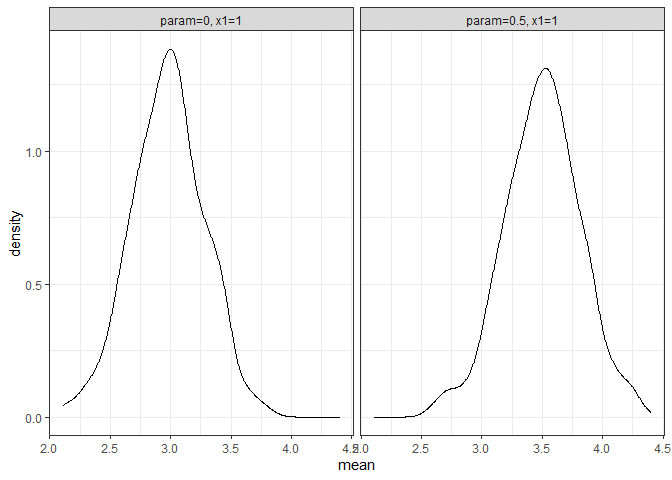
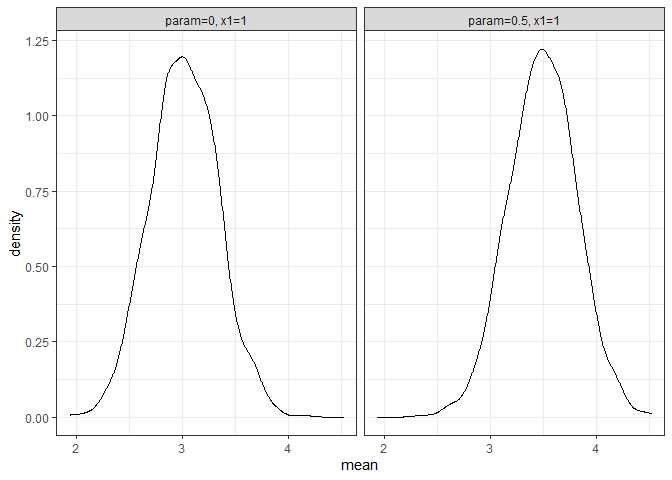
set.seed in examples and in report

diff --git a/README.md b/README.md
@@ -73,6 +73,8 @@ test_func <- function(param = 0.1, n = 100, x1 = 1, x2 = 2){
 param_list <- list(param = seq(from = 0, to = 1, by = 0.5),
                    x1 = 1:2)
 
+set.seed(101)
+
 test_mc <- future_mc(
   fun = test_func,
   repetitions = 1000,
@@ -87,7 +89,7 @@ test_mc <- future_mc(
 #> Running whole simulation: Overall 6 parameter combinations are simulated ...
 #> 
 #>  Simulation was successfull!
-#>  Running time: 00:00:00.726548
+#>  Running time: 00:00:00.292132
 
 test_mc
 #> Monte Carlo simulation results for the specified function: 
@@ -113,7 +115,7 @@ test_mc
 #> 6   1.0  2
 #> are each simulated 1000 times. 
 #>  
-#>  The Running time was: 00:00:00.726548 
+#>  The Running time was: 00:00:00.292132 
 #>  
 #>  Parallel: TRUE 
 #>  
@@ -134,21 +136,21 @@ Summarize your results:
 sum_res <- summary(test_mc)
 sum_res
 #> Results for the output mean: 
-#>    param=0, x1=1: 2.978156 
-#>    param=0, x1=2: 3.992713 
-#>    param=0.5, x1=1: 3.500902 
-#>    param=0.5, x1=2: 4.51591 
-#>    param=1, x1=1: 4.014331 
-#>    param=1, x1=2: 5.013077 
+#>    param=0, x1=1: 3.015575 
+#>    param=0, x1=2: 4.003162 
+#>    param=0.5, x1=1: 3.49393 
+#>    param=0.5, x1=2: 4.480855 
+#>    param=1, x1=1: 3.985815 
+#>    param=1, x1=2: 4.994084 
 #>  
 #>  
 #> Results for the output var: 
-#>    param=0, x1=1: 1.01179 
-#>    param=0, x1=2: 1.022623 
-#>    param=0.5, x1=1: 0.9974572 
-#>    param=0.5, x1=2: 0.9995245 
-#>    param=1, x1=1: 1.003151 
-#>    param=1, x1=2: 1.00385 
+#>    param=0, x1=1: 0.9968712 
+#>    param=0, x1=2: 1.026523 
+#>    param=0.5, x1=1: 0.9933278 
+#>    param=0.5, x1=2: 0.9997529 
+#>    param=1, x1=1: 0.9979682 
+#>    param=1, x1=2: 1.005633 
 #>  
 #> 
 ```
@@ -215,13 +217,13 @@ tidy_mc_latex(summary(test_mc)) %>%
 #> \toprule
 #> param & x1 & mean & var\\
 #> \midrule
-#> 0.0 & 1 & 2.978 & 1.012\\
-#> 0.0 & 2 & 3.993 & 1.023\\
-#> 0.5 & 1 & 3.501 & 0.997\\
-#> 0.5 & 2 & 4.516 & 1.000\\
-#> 1.0 & 1 & 4.014 & 1.003\\
+#> 0.0 & 1 & 3.016 & 0.997\\
+#> 0.0 & 2 & 4.003 & 1.027\\
+#> 0.5 & 1 & 3.494 & 0.993\\
+#> 0.5 & 2 & 4.481 & 1.000\\
+#> 1.0 & 1 & 3.986 & 0.998\\
 #> \addlinespace
-#> 1.0 & 2 & 5.013 & 1.004\\
+#> 1.0 & 2 & 4.994 & 1.006\\
 #> \bottomrule
 #> \multicolumn{4}{l}{\textsuperscript{} Total repetitions = 1000,}\\
 #> \multicolumn{4}{l}{total parameter combinations}\\
@@ -246,20 +248,20 @@ tidy_mc_latex(
 #> \midrule
 #> \addlinespace[0.3em]
 #> \multicolumn{3}{l}{\textbf{N = 10}}\\
-#> \hspace{1em}0.0 & 1 & 2.959\\
-#> \hspace{1em}0.0 & 2 & 4.061\\
-#> \hspace{1em}0.5 & 1 & 3.569\\
-#> \hspace{1em}0.5 & 2 & 4.568\\
-#> \hspace{1em}1.0 & 1 & 3.936\\
-#> \hspace{1em}1.0 & 2 & 4.991\\
+#> \hspace{1em}0.0 & 1 & 3.193\\
+#> \hspace{1em}0.0 & 2 & 3.810\\
+#> \hspace{1em}0.5 & 1 & 3.434\\
+#> \hspace{1em}0.5 & 2 & 4.550\\
+#> \hspace{1em}1.0 & 1 & 4.156\\
+#> \hspace{1em}1.0 & 2 & 5.030\\
 #> \addlinespace[0.3em]
 #> \multicolumn{3}{l}{\textbf{N = 1000}}\\
-#> \hspace{1em}0.0 & 1 & 2.978\\
-#> \hspace{1em}0.0 & 2 & 3.993\\
-#> \hspace{1em}0.5 & 1 & 3.501\\
-#> \hspace{1em}0.5 & 2 & 4.516\\
-#> \hspace{1em}1.0 & 1 & 4.014\\
-#> \hspace{1em}1.0 & 2 & 5.013\\
+#> \hspace{1em}0.0 & 1 & 3.016\\
+#> \hspace{1em}0.0 & 2 & 4.003\\
+#> \hspace{1em}0.5 & 1 & 3.494\\
+#> \hspace{1em}0.5 & 2 & 4.481\\
+#> \hspace{1em}1.0 & 1 & 3.986\\
+#> \hspace{1em}1.0 & 2 & 4.994\\
 #> \bottomrule
 #> \multicolumn{3}{l}{\textsuperscript{} Total repetitions =}\\
 #> \multicolumn{3}{l}{1000, total}\\
